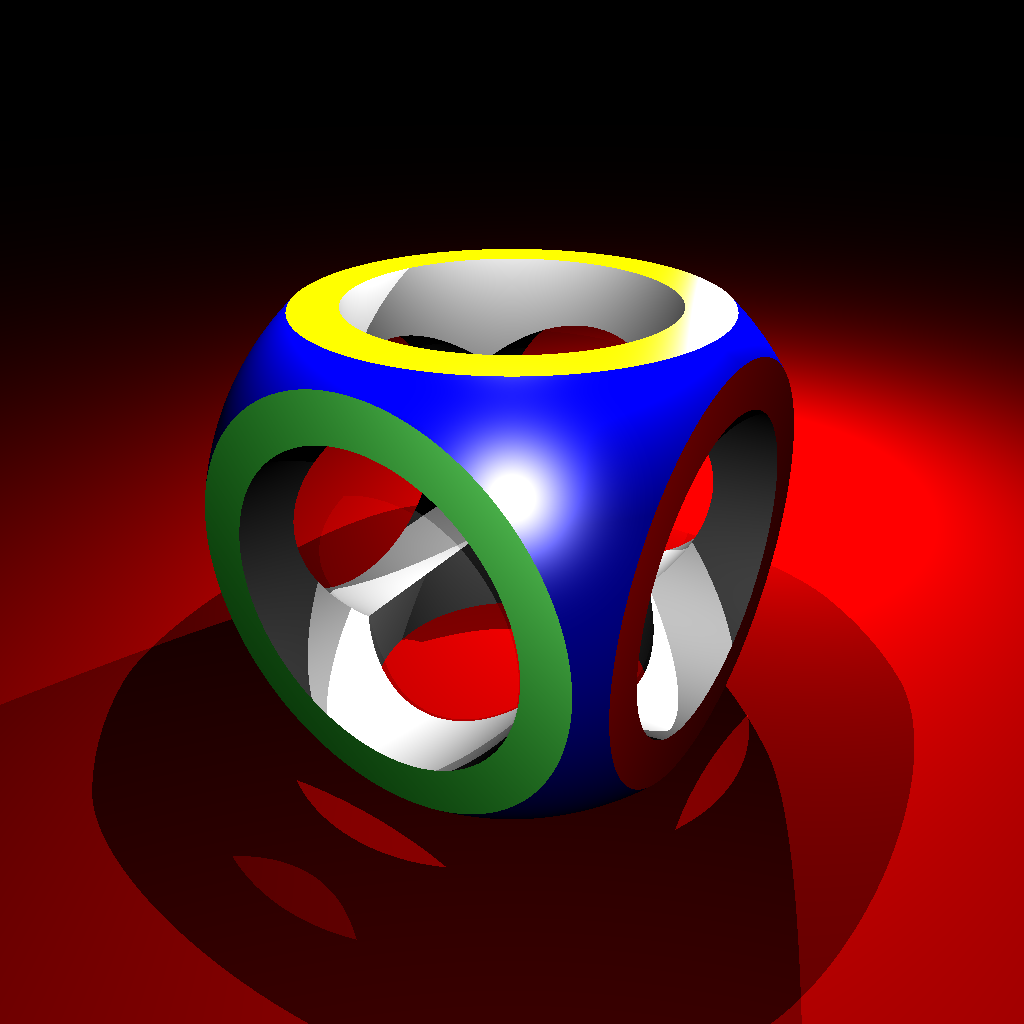
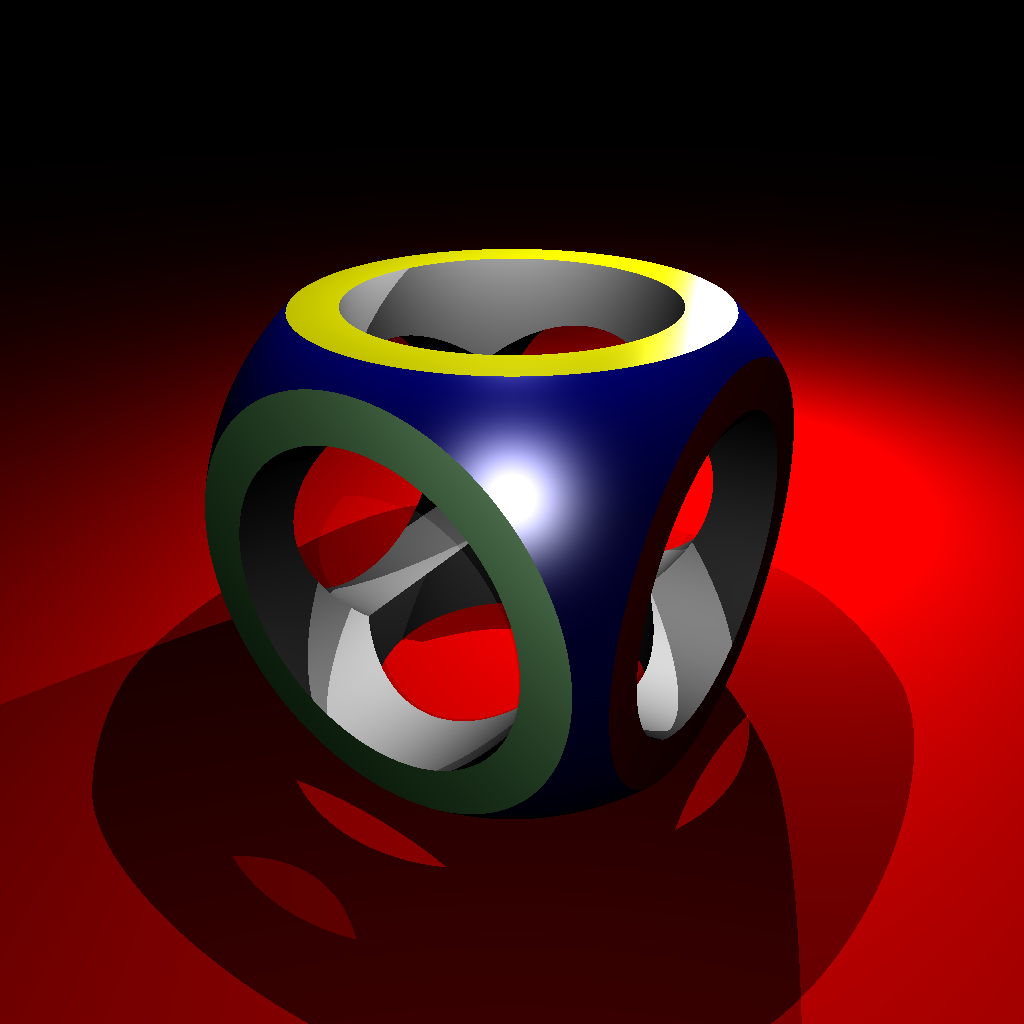
fixed blinn model

Changed region(s): [[0.1875, 0.2188, 0.7812, 0.8125]]

diff --git a/rt/src/rt/Main.java b/rt/src/rt/Main.java
@@ -4,6 +4,7 @@ import javax.imageio.ImageIO;
 
 import rt.basicscenes.Box;
 import rt.basicscenes.CSGDemo;
+import rt.basicscenes.CSGRefractiveDemo;
 import rt.basicscenes.Dodecahedron;
 import rt.testscenes.*;
 
@@ -26,7 +27,7 @@ public class Main {
 	/** 
 	 * The scene to be rendered.
 	 */
-	public static Scene scene = new MirrorSpheres();
+	public static Scene scene = new CSGRefractiveDemo();
 	/**
 	 * A render task represents a rectangular image region that is rendered
 	 * by a thread in one chunk.

diff --git a/rt/src/rt/materials/BlinnPlusMirror.java b/rt/src/rt/materials/BlinnPlusMirror.java
@@ -17,7 +17,7 @@ public class BlinnPlusMirror implements Material {
 
     public  BlinnPlusMirror(Spectrum kd, Spectrum ks, float shininess, Spectrum reflectivity) {
         blinn = new Blinn(kd, ks, shininess);
-        blinn.kd.mult(1 / (float) Math.PI);
+        //blinn.kd.mult(1 / (float) Math.PI);
         this.reflectivity = reflectivity;
     }
 

diff --git a/rt/src/rt/materials/Blinn.java b/rt/src/rt/materials/Blinn.java
@@ -40,6 +40,8 @@ public class Blinn implements Material {
         brdf.mult(1 / nDotl);
 
         // Add constant diffuse term
+        Spectrum kd = new Spectrum(this.kd);
+        kd.mult(1 / (float) Math.PI);
         brdf.add(kd);
 
         return brdf;
